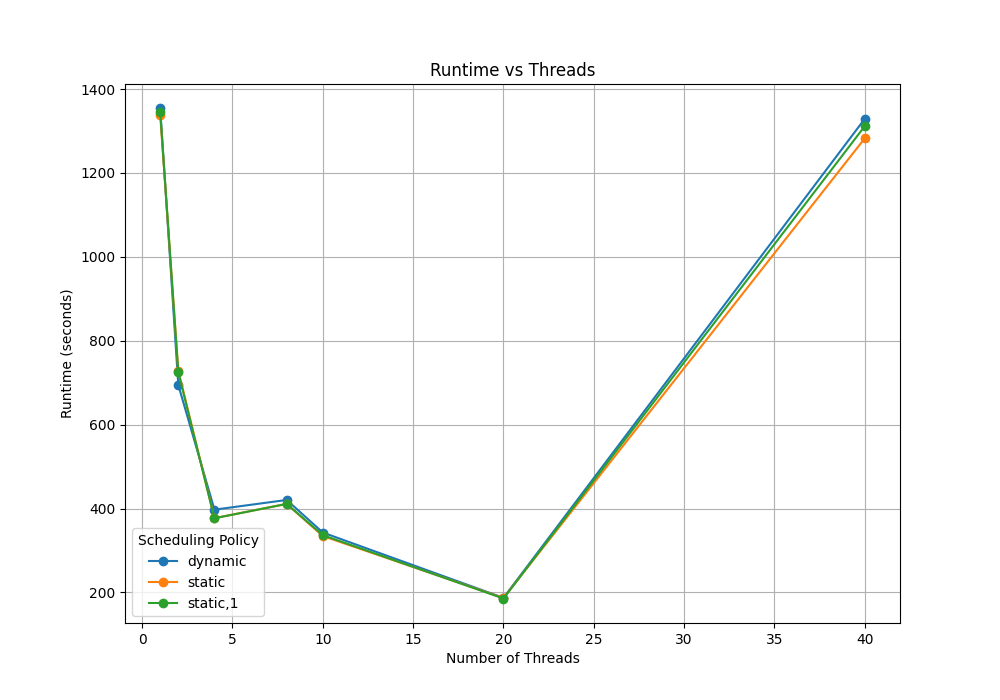
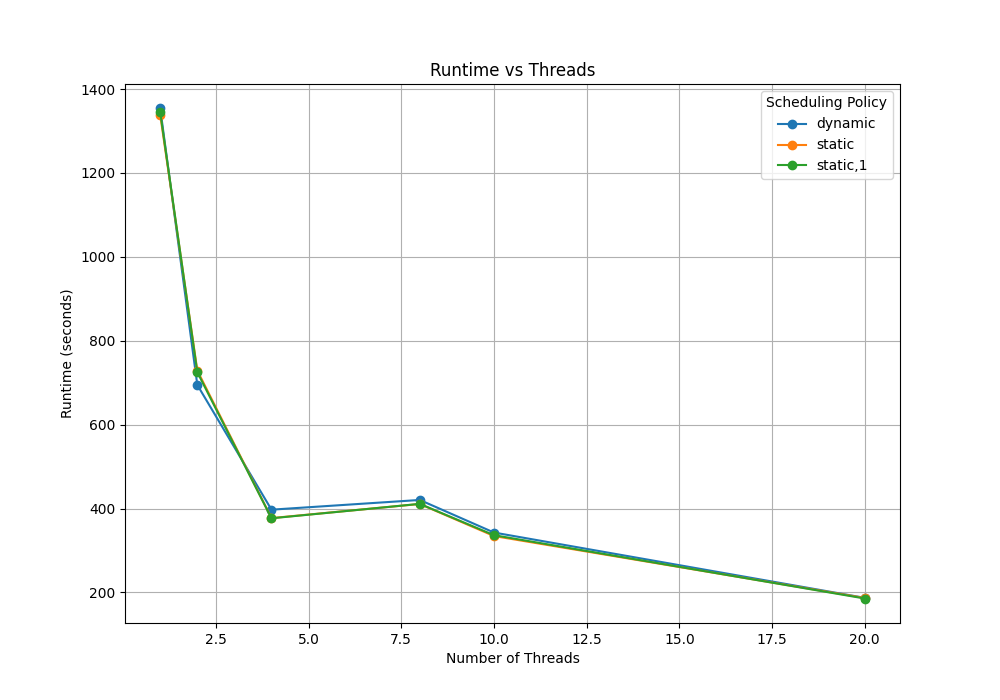
added more plots and fixed inconsistencies

diff --git a/task4/results/plot.py b/task4/results/plot.py
@@ -3,8 +3,8 @@ import matplotlib.pyplot as plt
 
 #change following to create different plot
 
-#file_name = "main"
-file_name = "main_ex2"
+file_name = "main"
+#file_name = "main_ex2"
 
 file_path = f"results_{file_name}.txt"  
 data = {"dynamic": [], "static": [], "static_1": []}
@@ -19,6 +19,7 @@ with open(file_path, newline='') as file:
 
 
 speedup_data = {}
+efficiency_data = {}
 for policy in data:
     #get the runtime for 1 thread (serial execution)
     serial_runtime = next(runtime for threads, runtime in data[policy] if threads == 1)
@@ -26,6 +27,10 @@ for policy in data:
     #calculate speedup for each entry relative to the runtime with one thread
     speedup_data[policy] = [
         (threads, serial_runtime / runtime) for threads, runtime in data[policy]
+    ]
+
+    efficiency_data[policy] = [
+        (threads, (serial_runtime / runtime) / threads) for threads, runtime in data[policy]
     ]
 
 
@@ -38,7 +43,7 @@ for policy, speedups in speedup_data.items():
 
 plt.xlabel("Number of Threads")
 plt.ylabel("Speedup")
-plt.title("Speedup (relative to serial runtime) vs Threads")
+plt.title("Scaling Speedup")
 plt.legend(title="Scheduling Policy")
 plt.grid(True)
 
@@ -60,4 +65,20 @@ plt.legend(title="Scheduling Policy")
 plt.grid(True)
 
 plt.savefig(f"runtime_plot_{file_name}.png")
+plt.show()
+
+#efficiency Plot
+plt.figure(figsize=(10, 7))
+for policy, efficiencies in efficiency_data.items():
+    threads = [entry[0] for entry in efficiencies]
+    efficiency = [entry[1] for entry in efficiencies]
+    plt.plot(threads, efficiency, marker="o", label=policy.replace("_", ","))
+
+plt.xlabel("Number of Threads")
+plt.ylabel("Efficiency")
+plt.title("Scaling Efficiency")
+plt.legend(title="Scheduling Policy")
+plt.grid(True)
+
+plt.savefig(f"efficiency_plot_{file_name}.png")
 plt.show()

diff --git a/task4/results/read_results.py b/task4/results/read_results.py
@@ -43,6 +43,8 @@ with open(output_main_ex2, "w") as f_main_ex2:
         for threads, runtime in data:
             if policy == "static,1":
                 policy = "static_1"
+            if threads == 40: #due to extreme inconsistency in data from cluster calculation
+                continue
             f_main_ex2.write(f"{threads},{policy},{runtime}\n")
 
 print(f"Results saved to {output_main} and {output_main_ex2}")
